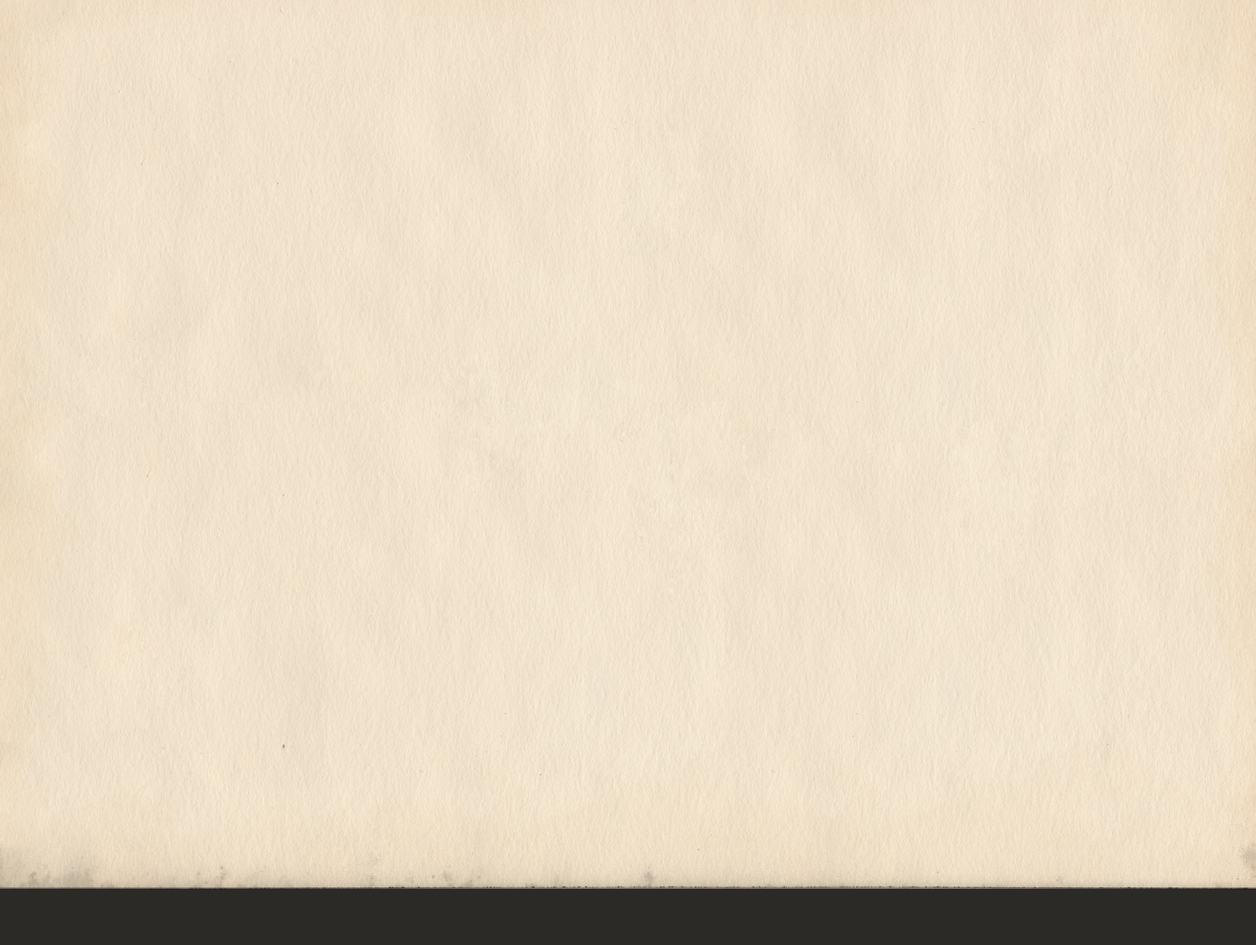
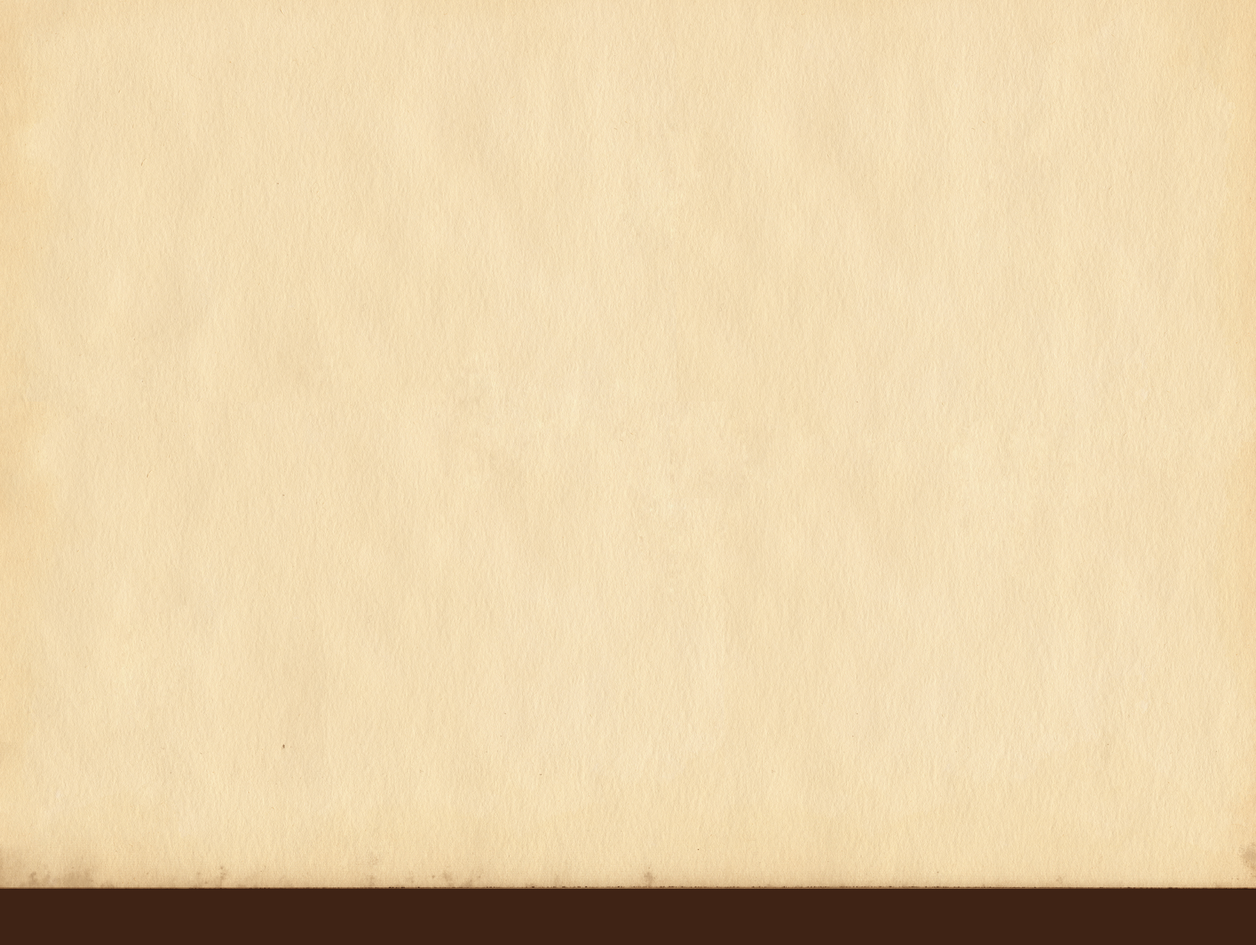
mistakes

Changed region(s): [[0.0, 0.0, 1.0, 0.9661]]

diff --git a/docs/js/scripts.js b/docs/js/scripts.js
@@ -102,7 +102,6 @@ var quizStrings = [
 function interfaceRender() {
     welcome.append(
         "<div class=''>" +
-            "<img class='animate animate-top animate-js pic' src='images/intro.png' alt=''>" +
             "<div class='animate animate-inside animate-js header'>" + quizStrings[0][lang].header + "</div>" +
             "<div class='animate animate-inside animate-js header--under'>" + quizStrings[0][lang].about + "</div>" +
         "</div>" +
@@ -123,6 +122,11 @@ $(document).on('click', '.js-quiz', function () {
     var $this = $(this);
 
     $('.animate-js').removeClass('animate');
+    $('.background').removeClass('background--animate');
+
+    setTimeout(function () {
+        $('.background').removeClass('background--intro').removeClass("background--" + i + '');
+    }, 300);
 
     setTimeout(function () {
         welcome.hide();
@@ -210,13 +214,13 @@ $(document).on('click', '.quiz-answer', function () {
 
     if ($(this).attr('data-true') != 0) {
 
-
+        $('.background').addClass("background--" + i + '');
         $('.quiz-answer').removeClass('animate');
 
         setTimeout(function () {
             $('.answers').addClass('hide');
             $('.quiz-additional').removeClass('hide');
-
+            $('.background').addClass("background--animate");
 
         }, 400);
         setTimeout(function () {
@@ -240,10 +244,12 @@ $(document).on('click', '.quiz-answer', function () {
 $(document).on('click', '.reset', function () {
 
     $('.animate-js').removeClass('animate');
+    $('.background').addClass('background--intro');
     setTimeout(function () {
         quiz.html('');
         welcome.show();
         $('.animate-js').addClass('animate');
+        $('.background').addClass('background--animate');
     }, 400);
 
     score = 0;
@@ -252,6 +258,7 @@ $(document).on('click', '.reset', function () {
 $(document).on('click', '.lang', function () {
 
     $('.animate-js').removeClass('animate');
+    $('.background').addClass('background--intro');
     setTimeout(function () {
         if ($('html').attr('lang') == 'ru') {
             lang = 'eng';
@@ -266,6 +273,7 @@ $(document).on('click', '.lang', function () {
 
         interfaceRender();
         $('.animate-js').removeClass('animate');
+        $('.background').addClass('background--animate');
 
         welcome.show();
 

diff --git a/docs/css/style.css b/docs/css/style.css
@@ -77,12 +77,42 @@ body
             user-select: none;
 
     color: #000; 
-    background-color: #a86538;
     background-image: url('../images/background.jpg');
     -webkit-background-size: cover;
             background-size: cover;
+}
 
-    background-blend-mode: multiply;
+.background
+{
+    position: absolute;
+    top: 0;
+
+    width: 100%;
+    height: 100%;
+
+    -webkit-transition: all .3s ease-in;
+         -o-transition: all .3s ease-in;
+            transition: all .3s ease-in;
+
+    opacity: 0; 
+    -webkit-background-size: cover;
+            background-size: cover;
+}
+.background--animate
+{
+    -webkit-transition: all .3s ease-in;
+         -o-transition: all .3s ease-in;
+            transition: all .3s ease-in; 
+
+    opacity: 1;
+}
+.background--intro
+{
+    background-image: url('../images/background-intro.jpg');
+}
+.background--1
+{
+    background-image: url('../images/background-1.jpg');
 }
 
 button
@@ -130,7 +160,7 @@ button
 
 .welcome
 {
-    margin-top: 38px;
+    margin-top: 620px;
 
     text-align: center;
 }

diff --git a/docs/index.html b/docs/index.html
@@ -11,6 +11,7 @@
       <link rel='stylesheet' href='css/style.css'>
   </head>
   <body>
+    <div class="background background--animate background--intro"></div>
     <div class="welcome">
 
     </div>
